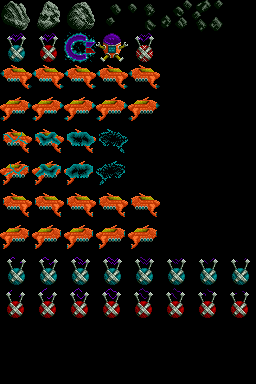
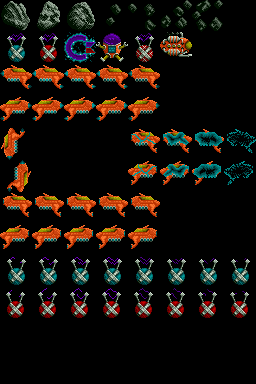
basic interaction with falkon prototype (hit return when facing it)

Changed region(s): [[0.0, 0.3125, 1.0, 0.5], [0.625, 0.0625, 0.75, 0.1562]]

diff --git a/menu.c b/menu.c
@@ -25,6 +25,8 @@ extern tStateManager *g_pStateMachineGame;
 struct wicher wicher;
 
 UBYTE direction = DIR_NONE;
+UBYTE interactionType = 0;
+BOOL executeInteractionCheck = FALSE;
 
 int mapCurrent[MAP_HEIGHT][MAP_WIDTH];
 UBYTE mapPrep = 0;
@@ -148,6 +150,10 @@ void isTileWalkableCheckAndPass(UBYTE dir)
 		default:
 			break;
 		}
+
+		blitRect(s_pVpManagerMenu->pBack, wicher.blitPosX, wicher.blitPosY, TS, TS, 0);
+		blitCopy(s_pTileset, 0, wicher.face, s_pVpManagerMenu->pBack, wicher.blitPosX, wicher.blitPosY, TS, TS, MINTERM_COOKIE);
+
 	}
 }
 
@@ -173,6 +179,10 @@ void drawMap()
 				wicher.blitPosY = j * TS;
 				blitCopy(s_pTileset, 0, wicher.face, s_pVpManagerMenu->pBack, i * TS, j * TS, TS, TS, MINTERM_COOKIE);
 			}
+			if (mapCurrent[j][i] == FALKON)
+			{
+				blitCopy(s_pTileset, 160, 32, s_pVpManagerMenu->pBack, i * TS, j * TS, TS, TS, MINTERM_COOKIE);	
+			}
 		}
 	}
 }
@@ -190,6 +200,48 @@ void mapDrawTwice()
 	}
 }
 
+void checkInteraction(UBYTE dir){
+switch (dir)
+	{
+		case RIGHT:
+			if (mapCurrent[wicher.mapPosY][wicher.mapPosX + 1] != 0)
+			{
+				interactionType = mapCurrent[wicher.mapPosY][wicher.mapPosX + 1];
+			}
+			break;
+		case LEFT:
+			if (mapCurrent[wicher.mapPosY][wicher.mapPosX - 1] != 0)
+			{
+				interactionType = mapCurrent[wicher.mapPosY][wicher.mapPosX - 1];
+			}
+			break;
+		case UP:
+			if (mapCurrent[wicher.mapPosY - 1][wicher.mapPosX] != 0)
+			{
+				interactionType = mapCurrent[wicher.mapPosY - 1][wicher.mapPosX];
+			}
+			break;
+		case DOWN:
+			if (mapCurrent[wicher.mapPosY + 1][wicher.mapPosX] != 0)
+			{
+				interactionType = mapCurrent[wicher.mapPosY + 1][wicher.mapPosX];
+			}
+			break;
+
+		default:
+			break;	
+	}
+	if (interactionType != 0){
+		executeInteractionCheck = TRUE;
+	}
+}
+
+void executeInteraction(UBYTE type){
+	if (type == FALKON){
+		blitRect(s_pVpManagerMenu->pBack, 32, 32, 96, 96, randUwMinMax(0, 0, 32));
+	}
+	
+}
 ////////////////////////////////////////////////////
 void stateMenuCreate(void)
 {
@@ -228,6 +280,7 @@ void stateMenuCreate(void)
 
 	loadMap(map1);
 	
+	randInit(0, 69, 1337);
 
 	joyOpen();
 	keyCreate();
@@ -239,6 +292,12 @@ void stateMenuLoop(void)
 {
 	mapDrawTwice();
 	isTileWalkableCheckAndPass(direction);
+
+	if (executeInteractionCheck == TRUE){
+		executeInteraction(interactionType);
+		executeInteractionCheck = FALSE;
+		interactionType = 0;
+	}
 
 	if (wicher.state == STATE_ANIM)
 	{
@@ -282,10 +341,15 @@ void stateMenuLoop(void)
 		else if (keyCheck(KEY_UP))
 		{
 			direction = UP;
+			wicher.face = FACE_UP;
 		}
 		else if (keyCheck(KEY_DOWN))
 		{
 			direction = DOWN;
+			wicher.face = FACE_DOWN;
+		}
+		else if (keyCheck(KEY_RETURN)){
+			checkInteraction(direction);
 		}
 	}
 

diff --git a/maps.h b/maps.h
@@ -7,7 +7,7 @@ int map1[MAP_HEIGHT][MAP_WIDTH] = {
 	{1, 2, 0, 0, 0, 0, 0, 0, 0, 0, 0, 0, 0, 0, 0, 0, 0, 0, 0, 1, 1, 0, 0, 1, 1, 0, 1, 0, 0, 0, 0, 0, 0, 0, 0, 0, 0, 0, 0, 1},
 	{1, 0, 0, 1, 1, 0, 1, 0, 0, 0, 0, 0, 0, 0, 0, 0, 0, 0, 0, 1, 1, 0, 0, 1, 1, 0, 1, 0, 0, 0, 0, 0, 0, 0, 0, 0, 0, 0, 0, 1},
 	{1, 0, 0, 0, 0, 0, 0, 0, 0, 0, 0, 0, 0, 0, 0, 0, 0, 0, 0, 1, 1, 0, 0, 1, 1, 0, 1, 0, 0, 0, 0, 0, 0, 0, 0, 0, 0, 0, 0, 1},
-	{1, 0, 0, 0, 0, 0, 0, 0, 0, 0, 0, 0, 0, 0, 0, 0, 0, 0, 0, 1, 1, 0, 0, 1, 1, 0, 1, 0, 0, 0, 0, 0, 0, 0, 0, 0, 0, 0, 0, 1},
+	{1, 0, 0, 3, 0, 0, 0, 0, 0, 0, 0, 0, 0, 0, 0, 0, 0, 0, 0, 1, 1, 0, 0, 1, 1, 0, 1, 0, 0, 0, 0, 0, 0, 0, 0, 0, 0, 0, 0, 1},
 	{1, 0, 0, 0, 0, 0, 0, 0, 0, 0, 0, 0, 0, 0, 0, 0, 0, 0, 0, 1, 1, 0, 0, 1, 1, 0, 1, 0, 0, 0, 0, 0, 0, 0, 0, 0, 0, 0, 0, 1},
 	{1, 0, 0, 0, 0, 0, 0, 0, 0, 0, 0, 0, 0, 0, 0, 0, 0, 0, 0, 1, 1, 0, 0, 1, 1, 0, 1, 0, 0, 0, 0, 0, 0, 0, 0, 0, 0, 0, 0, 1},
 	{1, 0, 0, 0, 0, 0, 0, 0, 0, 0, 0, 0, 0, 0, 0, 0, 0, 0, 0, 1, 1, 0, 0, 1, 1, 0, 1, 0, 0, 0, 0, 0, 0, 0, 0, 0, 0, 0, 0, 1},

diff --git a/defines.h b/defines.h
@@ -9,6 +9,7 @@
 #define EMPTY_TILE 0
 #define METEORITE  1
 #define WICHER     2
+#define FALKON     3
 
 #define DIR_NONE 0
 #define RIGHT    1
@@ -21,6 +22,8 @@
 
 #define FACE_RIGHT 64
 #define FACE_LEFT  96
+#define FACE_UP    128
+#define FACE_DOWN  160
 
 #define WICHER_ANIM_SPEED 4
 
